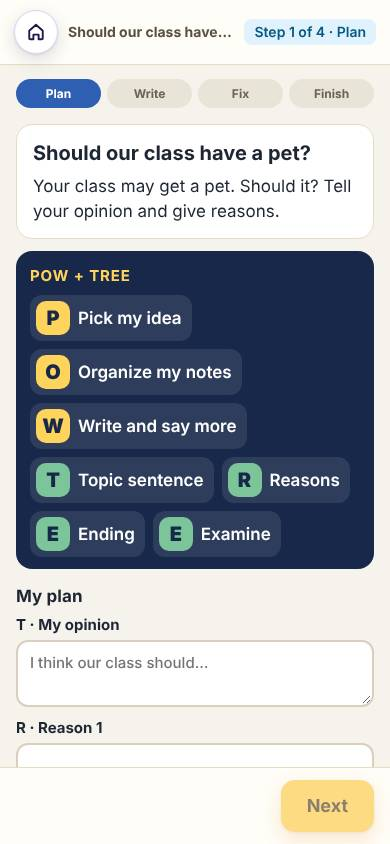
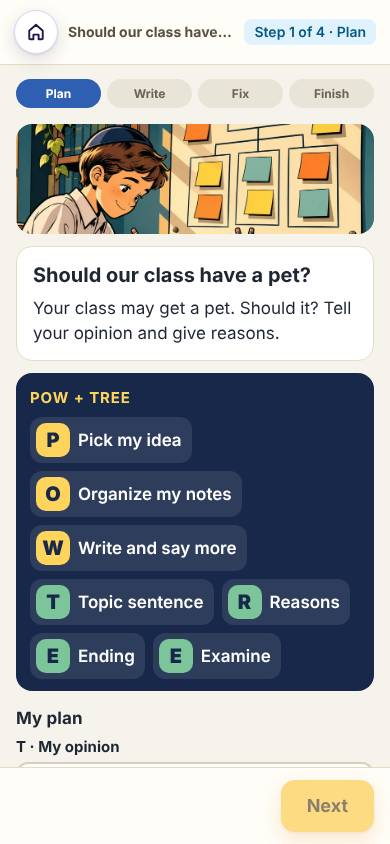
Writing Workshop: the workshop and My book pictures (art library, picture order T-1) on the Plan screen and My book
Claude-Session: https://claude.ai/code/session_01WBvMX2ukMEquyXqwaDMAGw

diff --git a/src/CoreWrite.html b/src/CoreWrite.html
@@ -88,7 +88,7 @@
     return '<div class="cw-foot">' + back + '<span class="cw-sp"></span><span class="cw-why" aria-live="polite">' + esc(S.why || '') + '</span>' + btn('main', nextText || 'Next', 'data-cw="next"' + (nextOk ? '' : ' aria-disabled="true"')) + '</div>';
   }
   function viewPlan() {
-    return strip() + '<div class="cw-body"><div class="cw-prompt"><b>' + esc(S.task.title) + '</b><p>' + esc(S.task.prompt) + '</p></div>' + strat() + '<h3>My plan</h3>' + planCard(false) + '</div>';
+    return strip() + '<div class="cw-body"><img class="cw-hero" alt="" src="/pics/core-t-workshop.webp" onerror="this.remove()"><div class="cw-prompt"><b>' + esc(S.task.title) + '</b><p>' + esc(S.task.prompt) + '</p></div>' + strat() + '<h3>My plan</h3>' + planCard(false) + '</div>';
   }
   function viewWrite() {
     var n = words(S.piece.text), m = minWords();
@@ -136,7 +136,7 @@
   /* ---------- My book ---------- */
   function viewBook() {
     var mine = S.mine || [], pub = mine.filter(function (p) { return p.status === 'published'; }), back = mine.filter(function (p) { return p.status === 'returned'; });
-    return '<div class="cw-body"><h2 class="cw-bt">My book</h2>' + (back.length ? '<h3>Sent back to fix</h3><div class="cw-shelf">' + back.map(card).join('') + '</div>' : '') +
+    return '<div class="cw-body"><img class="cw-hero" alt="" src="/pics/core-t-mybook.webp" onerror="this.remove()"><h2 class="cw-bt">My book</h2>' + (back.length ? '<h3>Sent back to fix</h3><div class="cw-shelf">' + back.map(card).join('') + '</div>' : '') +
       (pub.length ? '<div class="cw-shelf">' + pub.map(card).join('') + '</div>' : '<p class="cw-tip">Your published writing will be here, with its picture.</p>') + '</div>';
   }
   function card(p) { return '<button type="button" class="tlk tlk-tile cw-card" data-cw="openp" data-k="' + esc(p.id) + '"><span class="cw-cp" aria-hidden="true">' + esc(p.pic || '📝') + '</span><b>' + esc(p.title) + '</b><small>' + p.words + ' words</small></button>'; }
@@ -245,7 +245,7 @@
     '#cwr .cw-scroll{flex:1;overflow-y:auto;overflow-x:hidden}' +
     '#cwr .cw-strip{display:flex;gap:6px;list-style:none;margin:14px auto 0;padding:0 16px;max-width:980px}#cwr .cw-strip li{flex:1;text-align:center;padding:6px 4px;border-radius:999px;background:#E9E4D8;color:#6B6455;font-size:14px;font-weight:700}' +
     '#cwr .cw-strip li.on{background:#2F5FB3;color:#fff}#cwr .cw-strip li.done{background:#DDF4E6;color:#0E7A4F}' +
-    '#cwr .cw-body{max-width:980px;margin:0 auto;padding:16px}#cwr h3{margin:18px 0 8px;font-size:17px}' +
+    '#cwr .cw-hero{display:block;width:100%;height:190px;object-fit:cover;object-position:50% 22%;border-radius:16px;margin-bottom:12px}@media (max-width:480px){#cwr .cw-hero{height:110px}}#cwr .cw-body{max-width:980px;margin:0 auto;padding:16px}#cwr h3{margin:18px 0 8px;font-size:17px}' +
     '#cwr .cw-prompt{background:#fff;border-radius:16px;padding:14px 16px;border:1px solid #E6DCC5}#cwr .cw-prompt b{font-size:20px}#cwr .cw-prompt p{margin:6px 0 0}' +
     '#cwr .cw-strat{margin-top:12px;background:#18284A;color:#fff;border-radius:16px;padding:12px 14px}#cwr .cw-strat b{font-size:15px;letter-spacing:.06em;text-transform:uppercase;color:#FFD45C}' +
     '#cwr .cw-letters{display:flex;flex-wrap:wrap;gap:8px;margin-top:8px}#cwr .cw-letters span{display:flex;align-items:center;gap:8px;background:rgba(255,255,255,.1);border-radius:12px;padding:6px 10px 6px 6px;font-weight:600}' +
